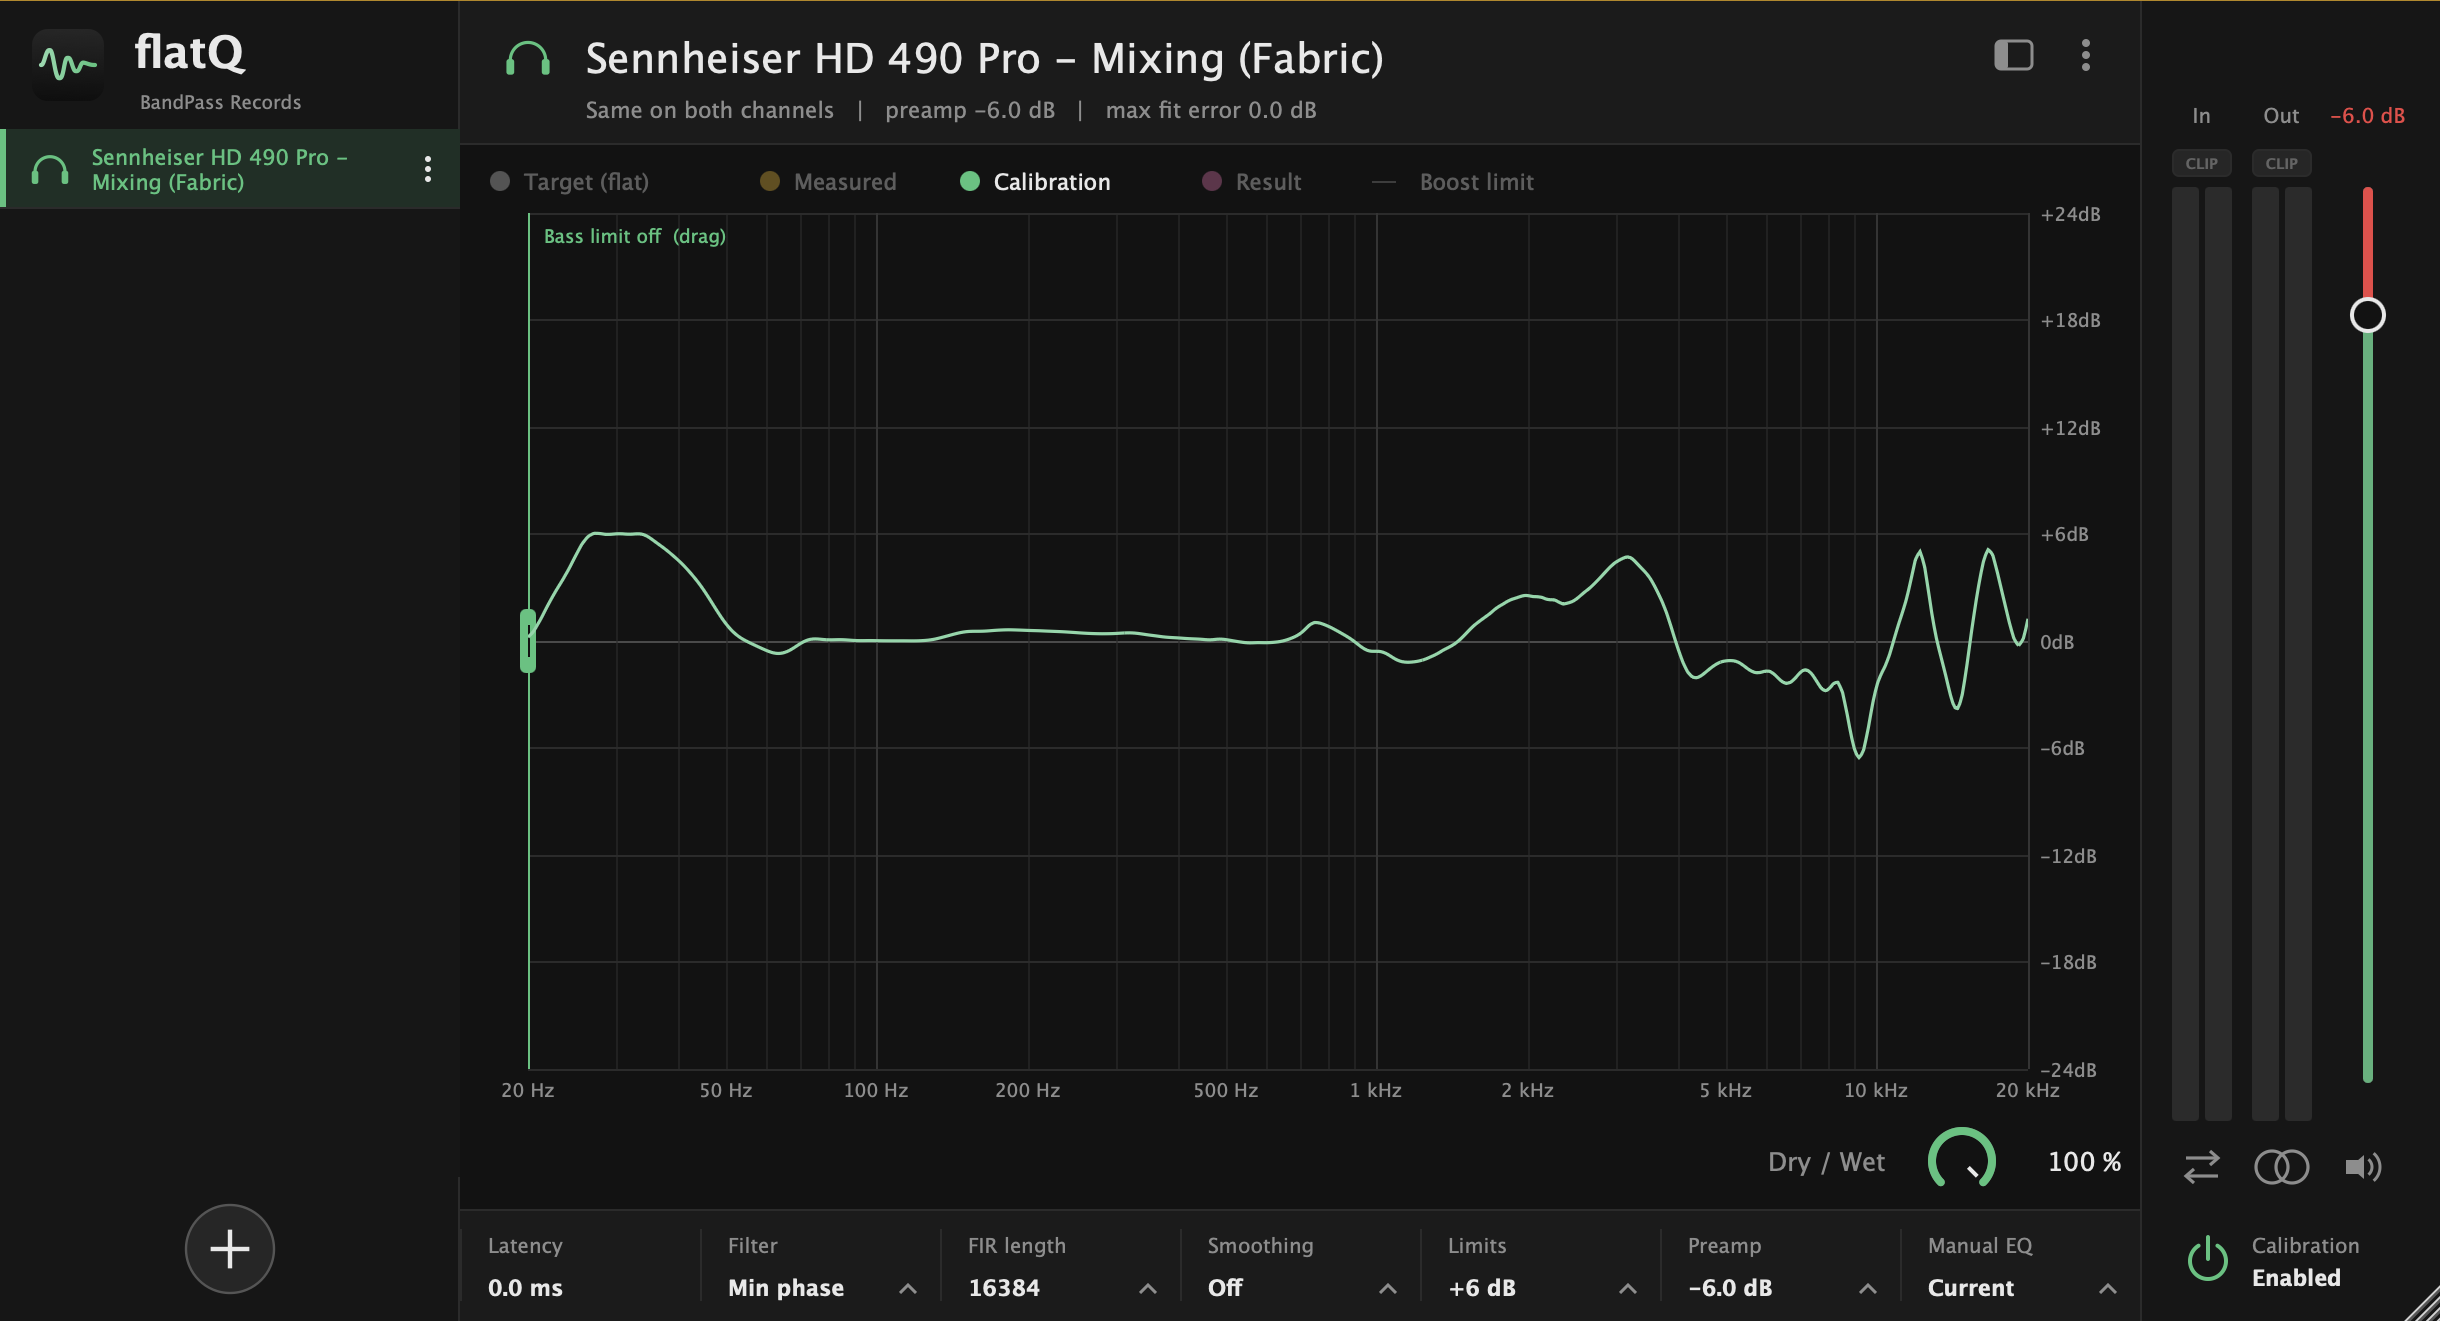
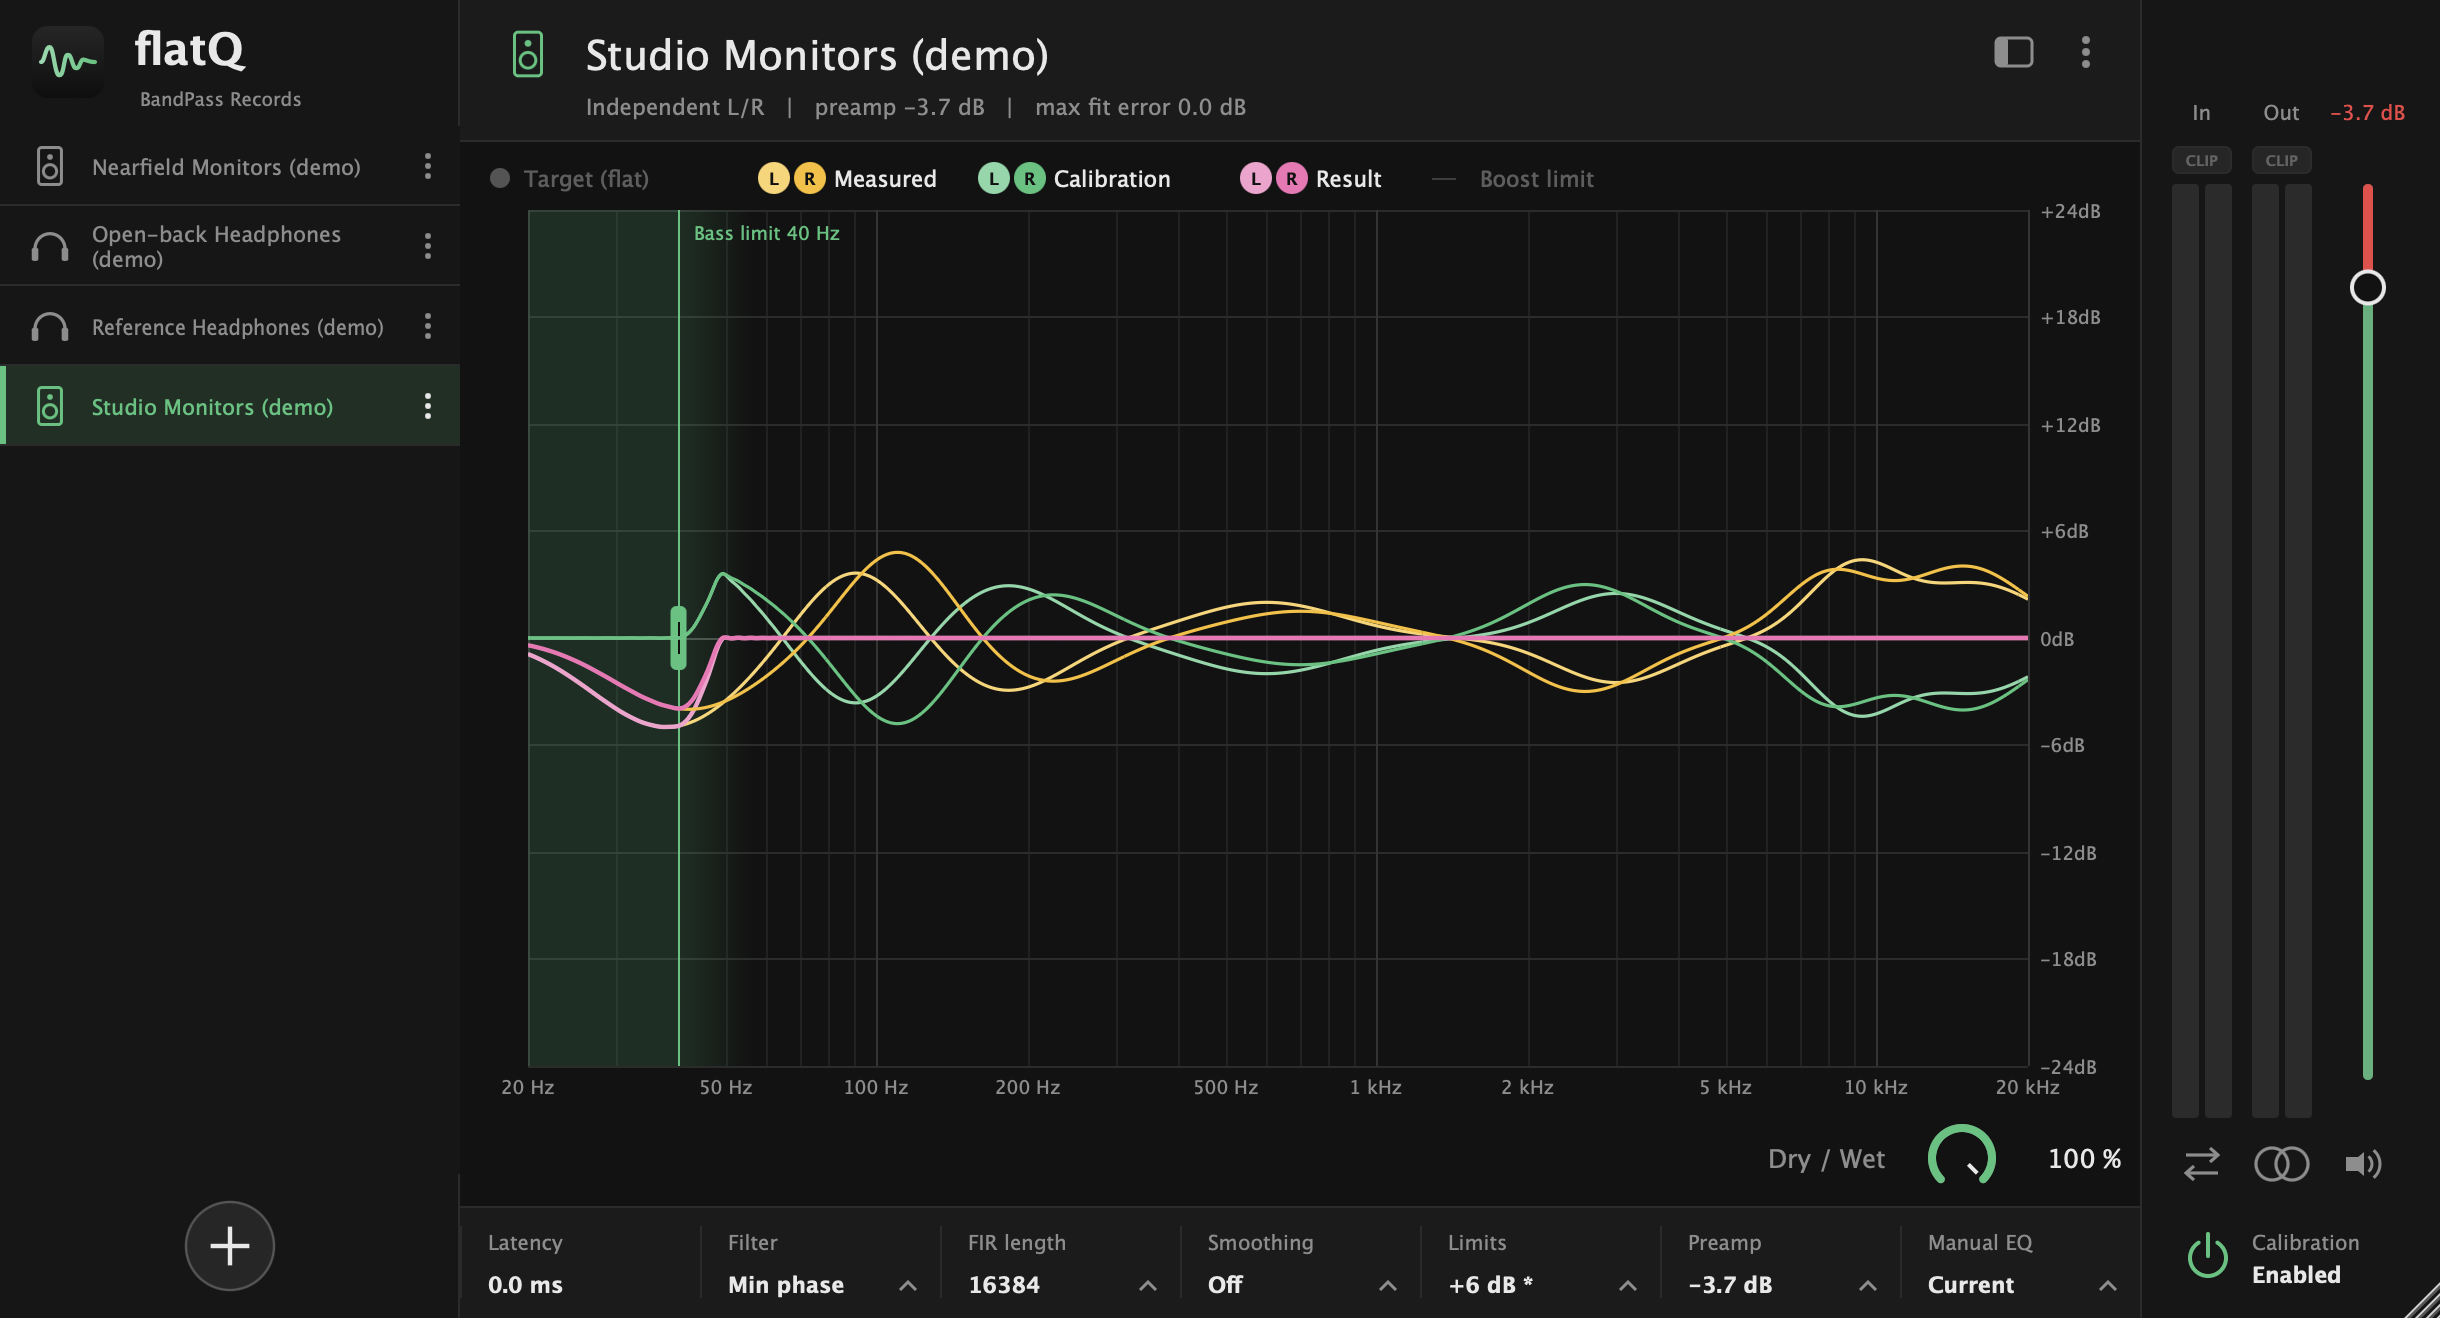
Site: clean screenshots with example profiles, gallery section

diff --git a/index.html b/index.html
@@ -78,6 +78,8 @@ section{padding:6rem 0}
 .row{display:flex;justify-content:space-between;gap:1rem;padding:.55rem .8rem;border:1px solid var(--border-color);border-radius:8px;background:var(--bg-darker);font-size:.9rem;color:var(--text-secondary)}
 .row b{color:var(--text-primary);font-weight:600}
 
+.shots{display:grid;grid-template-columns:1fr 1fr;gap:1.25rem}
+.shots figure{margin:0}
 /* cards */
 .grid{display:grid;grid-template-columns:repeat(3,1fr);gap:1.25rem}
 .card{padding:1.6rem;border:1px solid var(--border-color);border-radius:12px;background:var(--bg-card);transition:border-color .3s,transform .3s}
@@ -117,7 +119,7 @@ footer{padding:3rem 0;background:var(--bg-darker);border-top:1px solid var(--bor
   .hero-title{font-size:2.4rem}.section-title{font-size:2rem}
   .feature-row,.feature-row.reverse{grid-template-columns:1fr;gap:2rem}
   .feature-row.reverse .feature-visual{order:0}
-  .grid,.dl,.foot{grid-template-columns:1fr}
+  .grid,.dl,.foot,.shots{grid-template-columns:1fr}
   .nav-links a:not(.gh){display:none}
 }
 </style>
@@ -149,8 +151,23 @@ footer{padding:3rem 0;background:var(--bg-darker);border-top:1px solid var(--bor
     </div>
     <p class="hero-plats mono">macOS · Windows · Linux</p>
     <div class="hero-visual">
-      <div class="app-window"><img src="img/app.png" alt="flatQ showing the correction curve of a headphone profile, with the profile list, level meters and output fader"></div>
+      <div class="app-window"><img src="img/app.png" alt="flatQ showing the left and right correction curves of a speaker profile, with the profile list, level meters and output fader"></div>
     </div>
+  </div>
+</section>
+
+<section id="gallery">
+  <div class="container">
+    <div class="section-head">
+      <p class="eyebrow mono">Screenshots</p>
+      <h2 class="section-title">Headphones and speakers, side by side</h2>
+      <p class="section-subtitle">The same view for both: the measured response, the calibration and the result, for each channel.</p>
+    </div>
+    <div class="shots">
+      <figure class="app-window"><img src="img/app-headphones.png" alt="flatQ with a headphone profile loaded" loading="lazy"></figure>
+      <figure class="app-window"><img src="img/app.png" alt="flatQ with a speaker profile loaded" loading="lazy"></figure>
+    </div>
+    <p class="more">Profiles shown are examples made for these screenshots.</p>
   </div>
 </section>
 
